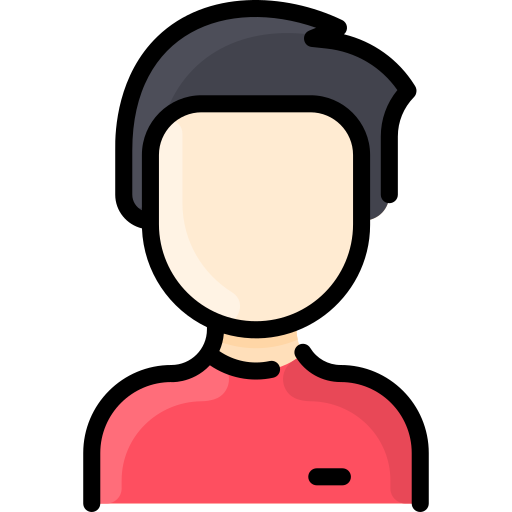
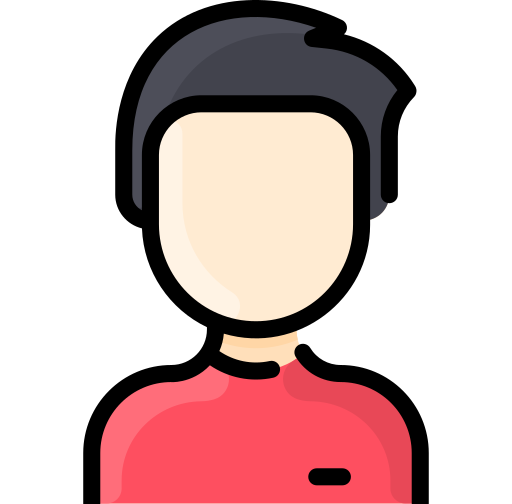
tagline & goals added

diff --git a/src/styles/style.css b/src/styles/style.css
@@ -135,7 +135,7 @@ a {
 /* ===== Layout ===== */
 main {
   flex-grow: 1;
-  padding: 1rem clamp(1rem, 2vw, 2rem);
+  /* padding: 1rem clamp(1rem, 2vw, 2rem); */
 }
 
 main h1 {
@@ -509,7 +509,9 @@ footer .footer__copyright {
   min-height: 100%;
   display: flex;
   margin: 0 auto;
-  padding: 1rem 0 0 0;
+  overflow-y: hidden;
+  padding: 1rem clamp(1rem, 2vw, 2rem) 0 clamp(1rem, 2vw, 2rem);
+  /* border-bottom: 2px solid var(--border-primary); */
 }
 
 .home__header {
@@ -580,7 +582,6 @@ footer .footer__copyright {
   border: 2px solid transparent;
   background-color: transparent;
   text-align: center;
-  /* border-radius: var(--border-radius); */
   padding: clamp(0.5rem, 1vw, 1rem) clamp(1rem, 2vw, 2rem);
   transition: transform var(--transition) ease, box-shadow var(--transition) ease;
   &:active {
@@ -603,7 +604,6 @@ footer .footer__copyright {
   border: 2px solid var(--principal-color);
   top: 0;
   left: 0;
-  /* border-radius: var(--border-radius); */
   transition: transform var(--transition) ease;
 }
 
@@ -636,16 +636,7 @@ footer .footer__copyright {
   z-index: 2;
 }
 
-.header__picture .background {
-  position: absolute;
-  /* display: flex;
-  align-items: center;
-  justify-content: center; */
-  /* width: 100%;
-  height: auto; */
-}
-
-.header__picture .background .neon__background {
+.header__picture .neon__background {
   position: absolute;
   width: 100%;
   max-width: clamp(250px, 40vw, 400px);
@@ -658,8 +649,8 @@ footer .footer__copyright {
   z-index: 0;
 }
 
-.header__picture .background .background__circle {
-  /* position: absolute; */
+.header__picture .background__circle {
+  position: absolute;
   width: clamp(250px, 30vw, 350px);
   height: clamp(250px, 30vw, 350px);
   border: 2rem solid var(--principal-color);
@@ -678,8 +669,9 @@ footer .footer__copyright {
 .header__picture .arrow__left,
 .header__picture .arrow__right {
   position: absolute;
-  width: clamp(calc(var(--fs-icon-xl) * 3), 15vw, calc(var(--fs-icon-xl) * 4));
-  height: clamp(calc(var(--fs-icon-xl) * 3), 15vw, calc(var(--fs-icon-xl) * 4));
+  width: clamp(calc(var(--fs-icon-xl) * 3.5), 15vw, calc(var(--fs-icon-xl) * 4.5));
+  height: clamp(calc(var(--fs-icon-xl) * 3.5), 15vw, calc(var(--fs-icon-xl) * 4.5));
+  stroke-width: 10px;
   filter: drop-shadow(2px 2px 0px var(--main-color));
   z-index: 2;
 }
@@ -728,4 +720,82 @@ footer .footer__copyright {
   .header__picture {
     width: 100%;
   }
+}
+
+/* ========== TAGLINE ========== */
+.tagline__section {
+  display: block;
+  width: 100%;
+  text-align: center;
+  padding: 1rem 0;
+  background-color: var(--secondary-color);
+  border-top: 1px solid var(--border-primary);
+  border-bottom: 1px solid var(--border-primary);
+}
+
+.tagline__section .tagline {
+  display: inline-block;
+  color: transparent;
+  font-weight: var(--fw-500);
+  background: linear-gradient(-30deg, var(--text-body-color) 70%, var(--text-color), var(--text-body-color) 75%) right/400%;
+  background-clip: text;
+  background-repeat: repeat;
+  animation: shimmer 6s linear infinite;
+}
+
+@keyframes shimmer {
+  100% {
+    background-position: left;
+  }
+}
+
+/* ========== GOAL ========== */
+.goals__section {
+  display: flex;
+  width: 100%;
+  padding: 1rem clamp(1rem, 2vw, 2rem);
+  margin: 2rem 0;
+}
+
+.goals__section .highlights__container {
+  display: flex;
+  align-items: center;
+  justify-content: center;
+  width: 50%;
+  min-height: 200px;
+  gap: 1rem;
+}
+
+.highlights__container .timeline {
+  display: flex;
+  flex-direction: column;
+  align-items: center;
+  justify-content: space-around;
+  width: auto;
+  height: 100%;
+  gap: 0.25rem;
+}
+
+.highlights__container .timeline .lines {
+  width: 5px;
+  height: 25%;
+  background-color: #e66;
+  border-radius: var(--border-radius);
+}
+
+.highlights__container .timeline .points {
+  width: 5px;
+  height: 5px;
+  aspect-ratio: 1 / 1;
+  background-color: #e66;
+  border-radius: 50%;
+}
+
+.highlights__container .highlights {
+  display: flex;
+  flex-direction: column;
+  justify-content: space-around;
+  align-items: start;
+  height: 100%;
+  /* gap: 1rem; */
 }
